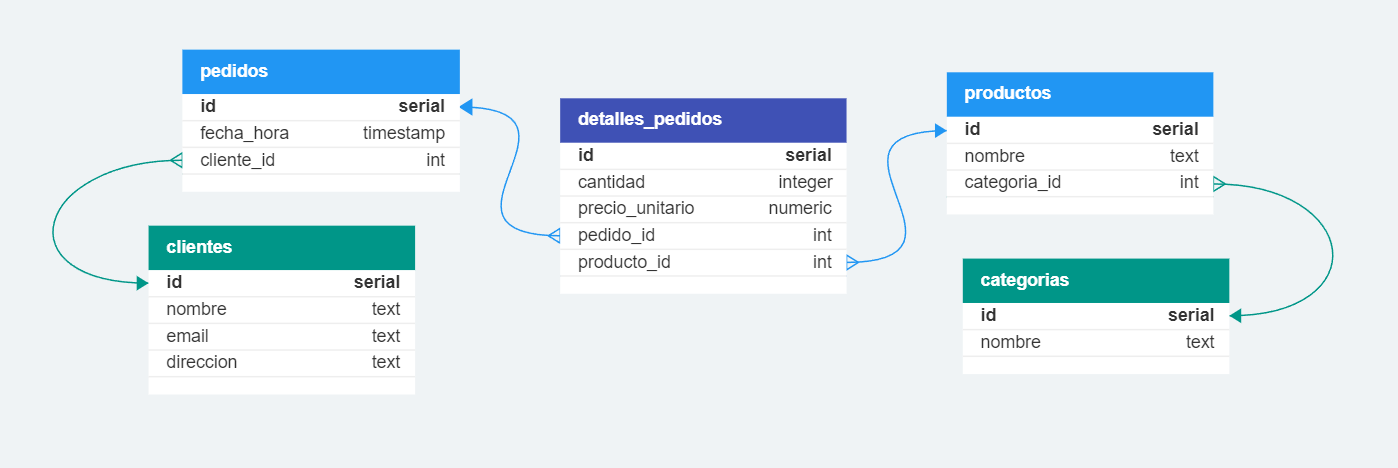
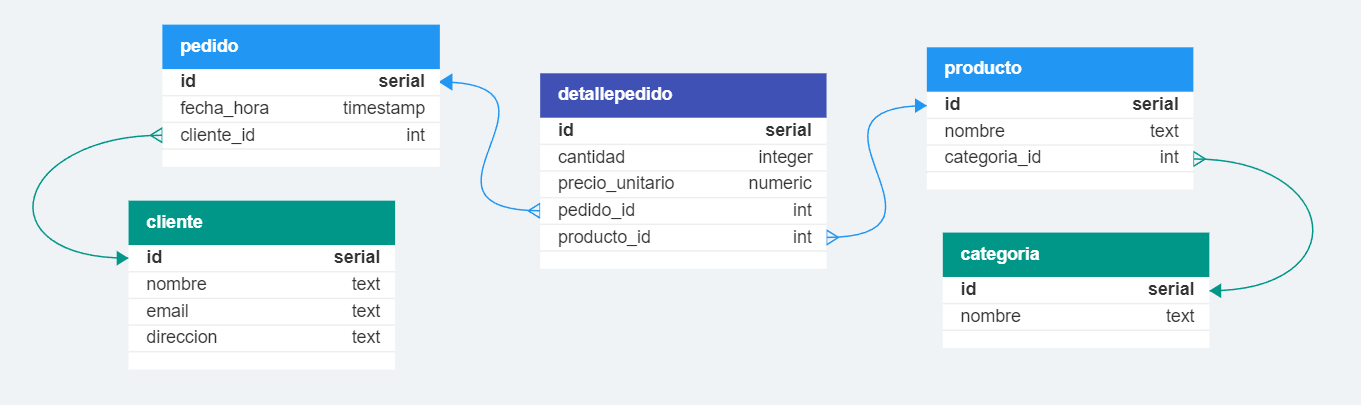
MOD:Modifica reporte.sql, quita aplicacion1_ para poder ejecutar sin django

diff --git a/modelo2.md b/modelo2.md
@@ -16,76 +16,76 @@
 **Modelo Lógico** 📝 (Versión 2)
 
 - **Tablas:**
-  - Tabla `clientes`
+  - Tabla `cliente`
     - Campos:
       - id (Clave Primaria)
       - nombre
       - email
       - direccion
-      - CONSTRAINT clientes_email_unique UNIQUE (email) -- Restricción UNIQUE
-  - Tabla `categorias`
+      - CONSTRAINT cliente_email_unique UNIQUE (email) -- Restricción UNIQUE
+  - Tabla `categoria`
     - Campos:
       - id (Clave Primaria)
       - nombre
-      - CONSTRAINT categorias_nombre_unique UNIQUE (nombre) -- Restricción UNIQUE
-  - Tabla `productos`
+      - CONSTRAINT categoria_nombre_unique UNIQUE (nombre) -- Restricción UNIQUE
+  - Tabla `producto`
     - Campos:
       - id (Clave Primaria)
       - nombre
       - categoria_id (Clave Foránea a categorias)
-  - Tabla `pedidos`
+  - Tabla `pedido`
     - Campos:
       - id (Clave Primaria)
       - fecha_hora
       - cliente_id (Clave Foránea a clientes)
-  - Tabla `detalles_pedidos`
+  - Tabla `detallepedido`
     - Campos:
       - id (Clave Primaria)
       - cantidad
       - precio_unitario
       - pedido_id (Clave Foránea a pedidos)
       - producto_id (Clave Foránea a productos)
-      - CONSTRAINT detalles_pedidos_cantidad_check CHECK (cantidad >= 0) -- Restricción CHECK
-      - CONSTRAINT detalles_pedidos_precio_unitario_check CHECK (precio_unitario >= 0) -- Restricción CHECK
+      - CONSTRAINT detallepedido_cantidad_check CHECK (cantidad >= 0) -- Restricción CHECK
+      - CONSTRAINT detallepedido_precio_unitario_check CHECK (precio_unitario >= 0) -- Restricción CHECK
 
 **Modelo Físico** 💽 (Versión 2)
 
 - **Definiciones SQL:**
 
 ```sql
--- Crear la tabla "clientes"
-CREATE TABLE clientes (
+-- Crear la tabla "cliente"
+CREATE TABLE cliente (
     id serial PRIMARY KEY,
     nombre text,
     email text UNIQUE,
     direccion text
 );
 
--- Crear la tabla "categorias"
-CREATE TABLE categorias (
+-- Crear la tabla "categoria"
+CREATE TABLE categoria (
     id serial PRIMARY KEY,
     nombre text UNIQUE,
 );
 
--- Crear la tabla "productos"
-CREATE TABLE productos (
+-- Crear la tabla "producto"
+CREATE TABLE producto (
     id serial PRIMARY KEY,
     nombre text,
-    categoria_id int REFERENCES categorias(id)
+    categoria_id int REFERENCES categoria(id)
 );
 
 -- Crear la tabla "pedidos"
-CREATE TABLE pedidos (
+CREATE TABLE pedido (
     id serial PRIMARY KEY,
     fecha_hora timestamp,
-    cliente_id int REFERENCES clientes(id)
+    cliente_id int REFERENCES cliente(id)
 );
 
 -- Crear la tabla "detalles_pedidos"
-CREATE TABLE detalles_pedidos (
+CREATE TABLE detallepedido (
     id serial PRIMARY KEY,
     cantidad integer CHECK (cantidad >= 0),
     precio_unitario numeric(10,2) CHECK (precio_unitario >= 0),
-    pedido_id int REFERENCES pedidos(id),
-    producto_id int REFERENCES productos(id)
+    pedido_id int REFERENCES pedido(id),
+    producto_id int REFERENCES producto(id)
 );

diff --git a/modelo1.md b/modelo1.md
@@ -16,27 +16,27 @@
 **Modelo Lógico** 📝
 
 - **Tablas:**
-  - Tabla `clientes`
+  - Tabla `cliente`
     - Campos: 
       - id (Clave Primaria)
       - nombre
       - email
       - direccion
-  - Tabla `categorias`
+  - Tabla `categoria`
     - Campos:
       - id (Clave Primaria)
       - nombre
-  - Tabla `productos`
+  - Tabla `producto`
     - Campos:
       - id (Clave Primaria)
       - nombre
       - categoria_id (Clave Foránea)
-  - Tabla `pedidos`
+  - Tabla `pedido`
     - Campos:
       - id (Clave Primaria)
       - fecha_hora
       - cliente_id (Clave Foránea)
-  - Tabla `detalles_pedidos`
+  - Tabla `detallepedido`
     - Campos:
       - id (Clave Primaria)
       - cantidad
@@ -50,7 +50,7 @@
 
 ```sql
 -- Crear la tabla "clientes"
-CREATE TABLE clientes (
+CREATE TABLE cliente (
     id serial PRIMARY KEY,
     nombre text,
     email text,
@@ -58,31 +58,31 @@ CREATE TABLE clientes (
 );
 
 -- Crear la tabla "categorias"
-CREATE TABLE categorias (
+CREATE TABLE categoria (
     id serial PRIMARY KEY,
     nombre text
 );
 
 -- Crear la tabla "productos"
-CREATE TABLE productos (
+CREATE TABLE producto (
     id serial PRIMARY KEY,
     nombre text,
-    categoria_id int REFERENCES categorias(id)
+    categoria_id int REFERENCES categoria(id)
 );
 
 -- Crear la tabla "pedidos"
-CREATE TABLE pedidos (
+CREATE TABLE pedido (
     id serial PRIMARY KEY,
     fecha_hora timestamp,
-    cliente_id int REFERENCES clientes(id)
+    cliente_id int REFERENCES cliente(id)
 );
 
 -- Crear la tabla "detalles_pedidos"
-CREATE TABLE detalles_pedidos (
+CREATE TABLE detallepedido (
     id serial PRIMARY KEY,
     cantidad integer,
     precio_unitario numeric(10,2),
-    pedido_id int REFERENCES pedidos(id),
-    producto_id int REFERENCES productos(id)
+    pedido_id int REFERENCES pedido(id),
+    producto_id int REFERENCES producto(id)
 );
 
